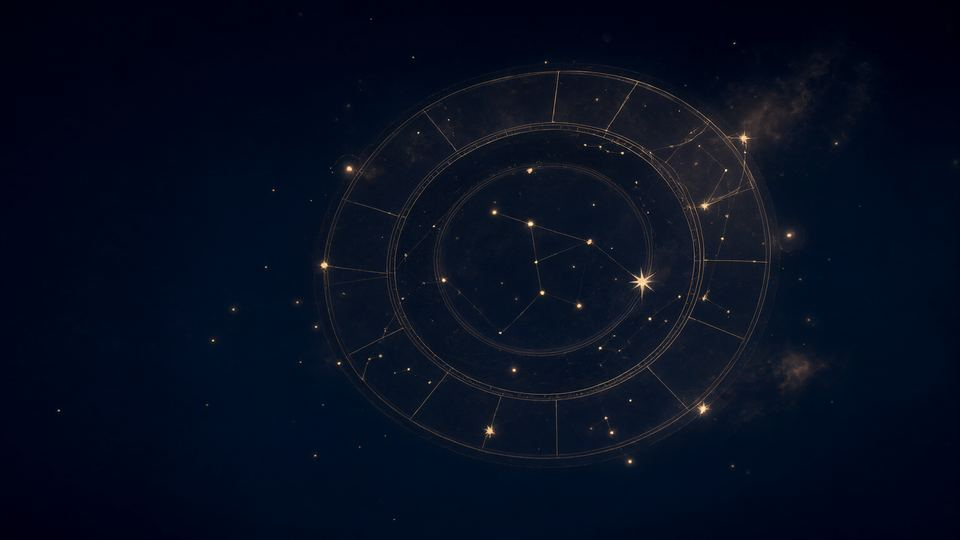
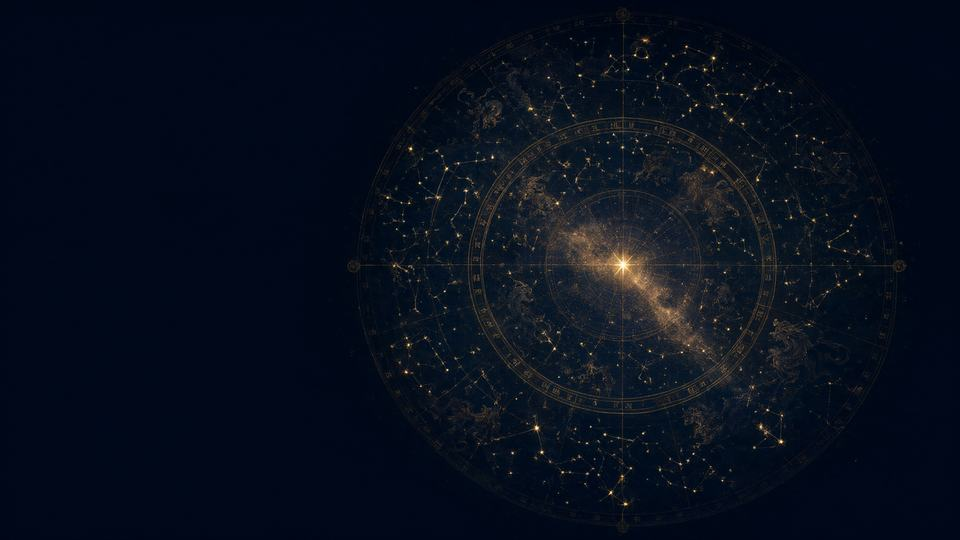
feat(ziwei): 雙主題背景（星宿圖／古書八卦）與行動版修正
- 深色：二十八宿星盤 seed 7312；淺色：古書八卦太極 seed 7403

- 淺色下拉箭頭、手機日期欄、標題斷行與標籤對比修正

diff --git a/source/ziwei-fortune/styles.css b/source/ziwei-fortune/styles.css
@@ -6,7 +6,7 @@
   --line: rgba(214, 178, 106, 0.2);
   --line-soft: rgba(255, 255, 255, 0.075);
   --ink: #ece6d9;
-  --muted: #97a1ac;
+  --muted: #a3adb8;
   --gold: #d9b871;
   --gold-soft: #f2ddaa;
   --jade: #6fbf9b;
@@ -66,19 +66,29 @@ body::before {
   z-index: 0;
 }
 
-/* Qwen-Image 生成的星盤背景（僅深色主題；固定定位做出視差感） */
+/* Qwen-Image 生成的雙主題背景：
+   深色＝二十八宿星盤，淺色＝古書／八卦／太極。
+   同色漸層壓在圖片左側，確保標題與內文對比。 */
 body::after {
   content: "";
   position: fixed;
   inset: 0;
   z-index: 0;
   pointer-events: none;
-  background: url("./bg-ziwei.jpg") center top / cover no-repeat;
-  opacity: 0.55;
-  mask-image: linear-gradient(180deg, rgba(0, 0, 0, 0.95) 0%, rgba(0, 0, 0, 0.6) 58%, rgba(0, 0, 0, 0.22) 100%);
-  -webkit-mask-image: linear-gradient(180deg, rgba(0, 0, 0, 0.95) 0%, rgba(0, 0, 0, 0.6) 58%, rgba(0, 0, 0, 0.22) 100%);
+  background:
+    linear-gradient(90deg, rgba(8, 11, 16, 0.94) 0%, rgba(8, 11, 16, 0.78) 30%, rgba(8, 11, 16, 0.22) 62%, rgba(8, 11, 16, 0) 100%),
+    url("./bg-ziwei.jpg") right center / cover no-repeat;
+  opacity: 0.78;
+  mask-image: linear-gradient(180deg, #000 0%, rgba(0, 0, 0, 0.8) 62%, rgba(0, 0, 0, 0.35) 100%);
+  -webkit-mask-image: linear-gradient(180deg, #000 0%, rgba(0, 0, 0, 0.8) 62%, rgba(0, 0, 0, 0.35) 100%);
 }
-body.light::after { display: none; }
+body.light::after {
+  display: block;
+  background:
+    linear-gradient(90deg, rgba(245, 240, 230, 0.94) 0%, rgba(245, 240, 230, 0.8) 34%, rgba(245, 240, 230, 0.22) 66%, rgba(245, 240, 230, 0.05) 100%),
+    url("./bg-ziwei-light.jpg") right center / cover no-repeat;
+  opacity: 0.95;
+}
 
 h1, h2, h3, .brand-text { font-family: var(--serif); font-weight: 600; letter-spacing: 0.02em; }
 a { color: var(--gold); text-decoration: none; }
@@ -154,8 +164,9 @@ a:hover { text-decoration: underline; }
 .hero-points { display: flex; flex-wrap: wrap; gap: 8px; margin: 0; padding: 0; list-style: none; }
 .hero-points li {
   padding: 5px 12px;
-  border: 1px solid var(--line-soft);
+  border: 1px solid var(--line);
   border-radius: 999px;
+  background: color-mix(in srgb, var(--gold) 8%, transparent);
   color: var(--muted);
   font-size: 12px;
   letter-spacing: 0.06em;
@@ -203,7 +214,11 @@ input[type="text"], input[type="number"], select {
   outline: none;
   transition: border-color 0.18s ease, box-shadow 0.18s ease;
 }
-body.light input[type="text"], body.light input[type="number"], body.light select { background: #fff; }
+body.light input[type="text"], body.light input[type="number"], body.light select { background-color: #fff; }
+body.light input[type="text"], body.light input[type="number"], body.light select,
+body.light .segmented { border-color: rgba(60, 45, 25, 0.24); }
+body.light .panel { border-color: rgba(60, 45, 25, 0.14); box-shadow: 0 18px 44px rgba(90, 70, 40, 0.1); }
+body.light .palace-cell { border-color: rgba(60, 45, 25, 0.16); }
 input:focus, select:focus { border-color: var(--gold); box-shadow: 0 0 0 3px rgba(217, 184, 113, 0.14); }
 
 select {
@@ -465,8 +480,30 @@ body.light .tabs { background: rgba(255, 255, 255, 0.78); }
   .score-block { align-self: stretch; justify-content: space-between; }
   .tabs { top: 68px; }
   body::after {
-    background-image: url("./bg-ziwei-mobile.jpg");
-    background-position: 62% top;
-    opacity: 0.48;
+    background:
+      linear-gradient(180deg, rgba(8, 11, 16, 0.93) 0%, rgba(8, 11, 16, 0.78) 38%, rgba(8, 11, 16, 0.42) 100%),
+      url("./bg-ziwei-mobile.jpg") 68% top / cover no-repeat;
+    opacity: 0.72;
   }
+  body.light::after {
+    background:
+      linear-gradient(180deg, rgba(245, 240, 230, 0.96) 0%, rgba(245, 240, 230, 0.87) 42%, rgba(245, 240, 230, 0.55) 100%),
+      url("./bg-ziwei-light-mobile.jpg") 62% top / cover no-repeat;
+    opacity: 0.88;
+  }
+}
+
+@media (max-width: 480px) {
+  .hero h1 { font-size: clamp(1.65rem, 7.2vw, 2rem); line-height: 1.3; }
+  .hero-copy { font-size: 14px; }
+  .hero-points { flex-wrap: nowrap; overflow-x: auto; padding-bottom: 4px; }
+  .hero-points li { white-space: nowrap; }
+  .date-row {
+    display: grid;
+    grid-template-columns: minmax(0, 1.15fr) auto minmax(0, 1fr) auto minmax(0, 1fr) auto;
+    gap: 6px;
+    align-items: center;
+  }
+  .date-row input[type="number"], .date-row select { width: 100%; min-width: 0; }
+  .leap-toggle { grid-column: 1 / -1; margin-left: 0; }
 }

diff --git a/source/ziwei-fortune/chart.css b/source/ziwei-fortune/chart.css
@@ -1,7 +1,7 @@
 .chart-panel { margin-top: 18px; scroll-margin-top: 86px; }
 .chart-hint { margin: -6px 0 14px; color: var(--muted); font-size: 12.5px; }
 
-.chart-legend { display: flex; flex-wrap: wrap; gap: 10px; font-size: 11px; color: var(--muted); letter-spacing: 0.06em; }
+.chart-legend { display: flex; flex-wrap: wrap; gap: 10px; font-size: 11.5px; color: var(--muted); letter-spacing: 0.06em; }
 .chart-legend .lg { position: relative; padding-left: 14px; }
 .chart-legend .lg::before { content: ""; position: absolute; left: 0; top: 50%; transform: translateY(-50%); width: 7px; height: 7px; border-radius: 2px; background: currentColor; }
 .chart-legend .lu { color: var(--jade); }
